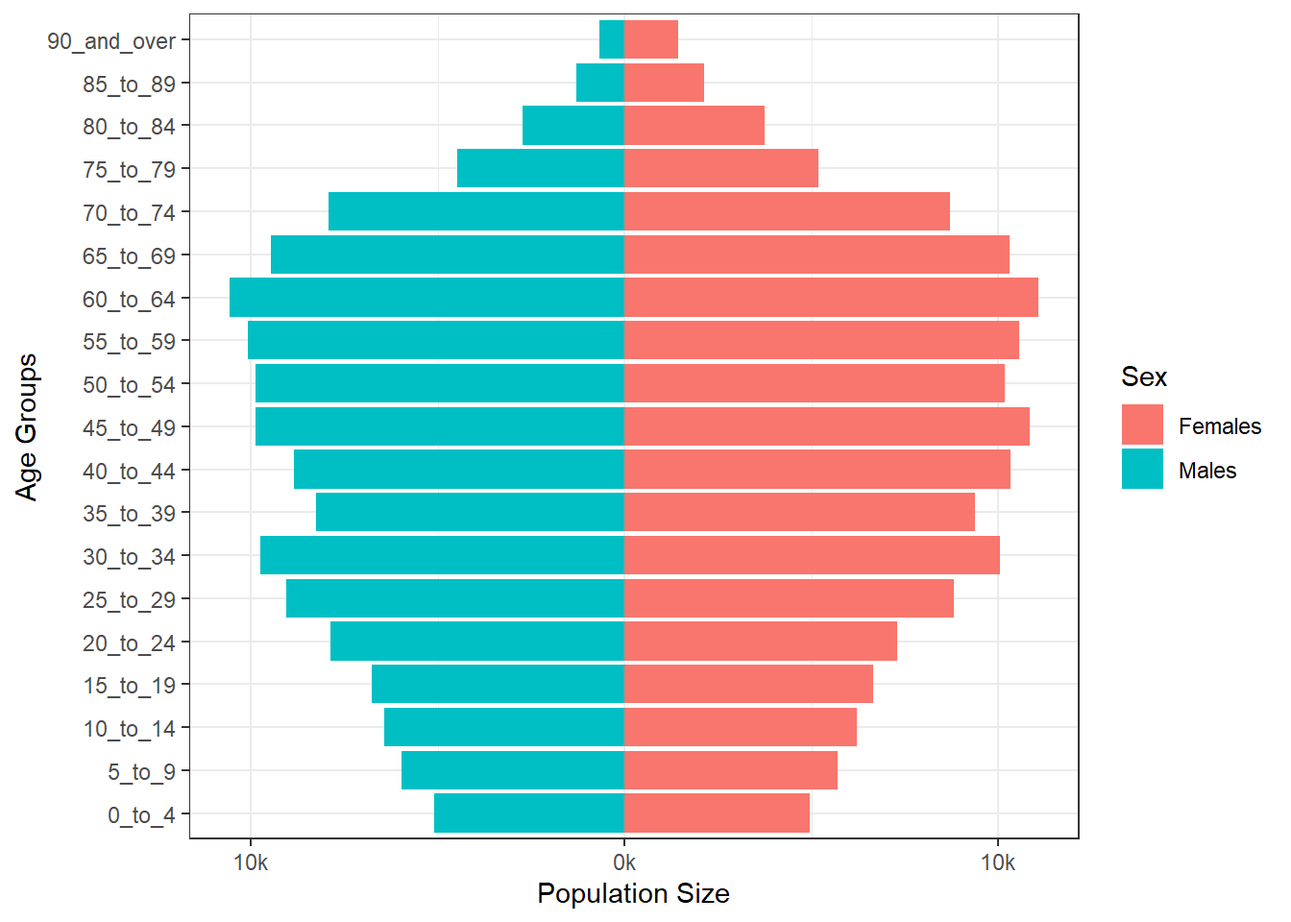
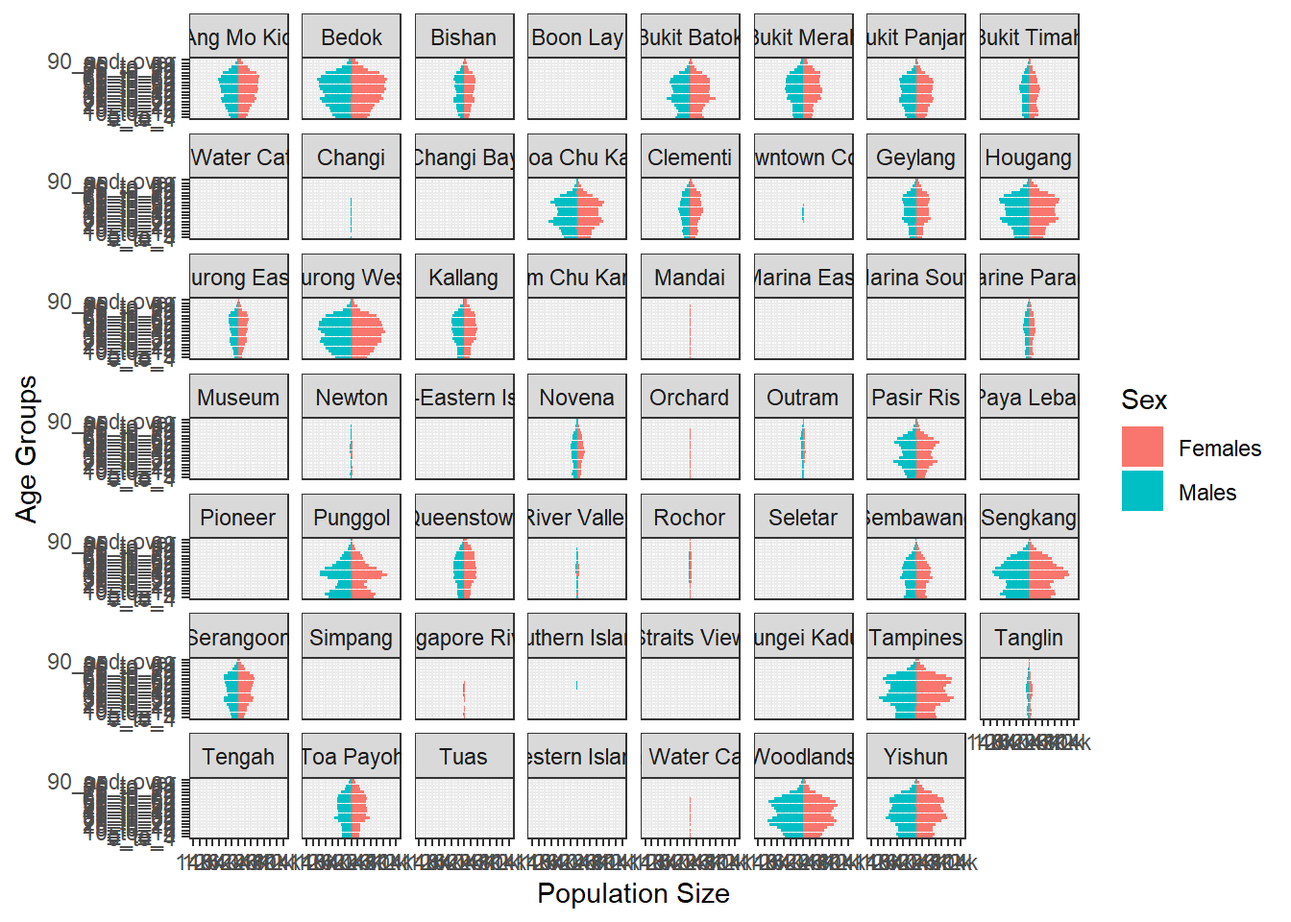
error

diff --git a/_site/Takehome_Ex/Takehome_Ex_02/takehome_Ex_02.html b/_site/Takehome_Ex/Takehome_Ex_02/takehome_Ex_02.html
@@ -252,20 +252,47 @@ code span.wa { color: #60a0b0; font-weight: bold; font-style: italic; } /* Warni
 <section id="remake" class="level2">
 <h2 class="anchored" data-anchor-id="remake">Remake</h2>
 <div class="cell">
-<div class="sourceCode cell-code" id="cb1"><pre class="sourceCode r code-with-copy"><code class="sourceCode r"><span id="cb1-1"><a href="#cb1-1" aria-hidden="true" tabindex="-1"></a>pacman<span class="sc">::</span><span class="fu">p_load</span>(tidyverse, patchwork, ggthemes, hrbrthemes,ggrepel,dplyr,prettyR, rmarkdown) </span>
+<div class="sourceCode cell-code" id="cb1"><pre class="sourceCode r code-with-copy"><code class="sourceCode r"><span id="cb1-1"><a href="#cb1-1" aria-hidden="true" tabindex="-1"></a>pacman<span class="sc">::</span><span class="fu">p_load</span>(tidyverse, patchwork, ggthemes, hrbrthemes,ggrepel,dplyr,prettyR, rmarkdown, XML, reshape2, plyr) </span>
 <span id="cb1-2"><a href="#cb1-2" aria-hidden="true" tabindex="-1"></a></span>
 <span id="cb1-3"><a href="#cb1-3" aria-hidden="true" tabindex="-1"></a><span class="co">#| echo: false</span></span>
 <span id="cb1-4"><a href="#cb1-4" aria-hidden="true" tabindex="-1"></a>  Popdata <span class="ot">&lt;-</span> <span class="fu">read_csv</span>(<span class="st">"data/respopagesextod2022.csv"</span>, <span class="at">show_col_types =</span> <span class="cn">FALSE</span>)</span>
-<span id="cb1-5"><a href="#cb1-5" aria-hidden="true" tabindex="-1"></a></span>
-<span id="cb1-6"><a href="#cb1-6" aria-hidden="true" tabindex="-1"></a> Popdata_males <span class="ot">&lt;-</span> Popdata <span class="sc">%&gt;%</span></span>
-<span id="cb1-7"><a href="#cb1-7" aria-hidden="true" tabindex="-1"></a>  <span class="fu">filter</span>(<span class="st">`</span><span class="at">Sex</span><span class="st">`</span> <span class="sc">==</span>  <span class="st">"Males"</span>) <span class="sc">%&gt;%</span></span>
-<span id="cb1-8"><a href="#cb1-8" aria-hidden="true" tabindex="-1"></a>  <span class="fu">mutate</span> (<span class="at">Pop =</span> <span class="sc">-</span>Pop)</span>
-<span id="cb1-9"><a href="#cb1-9" aria-hidden="true" tabindex="-1"></a> </span>
-<span id="cb1-10"><a href="#cb1-10" aria-hidden="true" tabindex="-1"></a> Popdata_females <span class="ot">&lt;-</span>Popdata <span class="sc">%&gt;%</span></span>
-<span id="cb1-11"><a href="#cb1-11" aria-hidden="true" tabindex="-1"></a>  <span class="fu">filter</span>(<span class="st">`</span><span class="at">Sex</span><span class="st">`</span> <span class="sc">==</span>  <span class="st">"Females"</span>) </span>
-<span id="cb1-12"><a href="#cb1-12" aria-hidden="true" tabindex="-1"></a>Popdata_T <span class="ot">&lt;-</span> <span class="fu">rbind</span>(Popdata_males,Popdata_females)</span>
-<span id="cb1-13"><a href="#cb1-13" aria-hidden="true" tabindex="-1"></a></span>
-<span id="cb1-14"><a href="#cb1-14" aria-hidden="true" tabindex="-1"></a><span class="fu">paged_table</span>(Popdata_T)</span></code><button title="Copy to Clipboard" class="code-copy-button"><i class="bi"></i></button></pre></div>
+<span id="cb1-5"><a href="#cb1-5" aria-hidden="true" tabindex="-1"></a>Popdata</span></code><button title="Copy to Clipboard" class="code-copy-button"><i class="bi"></i></button></pre></div>
+<div class="cell-output cell-output-stdout">
+<pre><code># A tibble: 100,928 × 7
+   PA         SZ                     AG     Sex     TOD                Pop  Time
+   &lt;chr&gt;      &lt;chr&gt;                  &lt;chr&gt;  &lt;chr&gt;   &lt;chr&gt;            &lt;dbl&gt; &lt;dbl&gt;
+ 1 Ang Mo Kio Ang Mo Kio Town Centre 0_to_4 Males   HDB 1- and 2-Ro…     0  2022
+ 2 Ang Mo Kio Ang Mo Kio Town Centre 0_to_4 Males   HDB 3-Room Flats    10  2022
+ 3 Ang Mo Kio Ang Mo Kio Town Centre 0_to_4 Males   HDB 4-Room Flats    10  2022
+ 4 Ang Mo Kio Ang Mo Kio Town Centre 0_to_4 Males   HDB 5-Room and …    30  2022
+ 5 Ang Mo Kio Ang Mo Kio Town Centre 0_to_4 Males   HUDC Flats (exc…     0  2022
+ 6 Ang Mo Kio Ang Mo Kio Town Centre 0_to_4 Males   Condominiums an…    50  2022
+ 7 Ang Mo Kio Ang Mo Kio Town Centre 0_to_4 Males   Landed Properti…     0  2022
+ 8 Ang Mo Kio Ang Mo Kio Town Centre 0_to_4 Males   Others               0  2022
+ 9 Ang Mo Kio Ang Mo Kio Town Centre 0_to_4 Females HDB 1- and 2-Ro…     0  2022
+10 Ang Mo Kio Ang Mo Kio Town Centre 0_to_4 Females HDB 3-Room Flats     0  2022
+# … with 100,918 more rows</code></pre>
+</div>
+</div>
+<div class="cell">
+<div class="sourceCode cell-code" id="cb3"><pre class="sourceCode r code-with-copy"><code class="sourceCode r"><span id="cb3-1"><a href="#cb3-1" aria-hidden="true" tabindex="-1"></a>PlanningA <span class="ot">&lt;-</span> Popdata <span class="sc">%&gt;%</span> <span class="fu">group_by</span>(PA) <span class="sc">%&gt;%</span> <span class="fu">summarise</span>(<span class="at">SumPop =</span> <span class="fu">sum</span>(Pop)) </span>
+<span id="cb3-2"><a href="#cb3-2" aria-hidden="true" tabindex="-1"></a></span>
+<span id="cb3-3"><a href="#cb3-3" aria-hidden="true" tabindex="-1"></a>PlanningA</span></code><button title="Copy to Clipboard" class="code-copy-button"><i class="bi"></i></button></pre></div>
+<div class="cell-output cell-output-stdout">
+<pre><code>   SumPop
+1 4081540</code></pre>
+</div>
+</div>
+<div class="cell">
+<div class="sourceCode cell-code" id="cb5"><pre class="sourceCode r code-with-copy"><code class="sourceCode r"><span id="cb5-1"><a href="#cb5-1" aria-hidden="true" tabindex="-1"></a> Popdata_males <span class="ot">&lt;-</span> Popdata <span class="sc">%&gt;%</span></span>
+<span id="cb5-2"><a href="#cb5-2" aria-hidden="true" tabindex="-1"></a>  <span class="fu">filter</span>(<span class="st">`</span><span class="at">Sex</span><span class="st">`</span> <span class="sc">==</span>  <span class="st">"Males"</span>) <span class="sc">%&gt;%</span></span>
+<span id="cb5-3"><a href="#cb5-3" aria-hidden="true" tabindex="-1"></a>  <span class="fu">mutate</span> (<span class="at">Pop =</span> <span class="sc">-</span>Pop)</span>
+<span id="cb5-4"><a href="#cb5-4" aria-hidden="true" tabindex="-1"></a> </span>
+<span id="cb5-5"><a href="#cb5-5" aria-hidden="true" tabindex="-1"></a> Popdata_females <span class="ot">&lt;-</span>Popdata <span class="sc">%&gt;%</span></span>
+<span id="cb5-6"><a href="#cb5-6" aria-hidden="true" tabindex="-1"></a>  <span class="fu">filter</span>(<span class="st">`</span><span class="at">Sex</span><span class="st">`</span> <span class="sc">==</span>  <span class="st">"Females"</span>) </span>
+<span id="cb5-7"><a href="#cb5-7" aria-hidden="true" tabindex="-1"></a>Popdata_T <span class="ot">&lt;-</span> <span class="fu">rbind</span>(Popdata_males,Popdata_females)</span>
+<span id="cb5-8"><a href="#cb5-8" aria-hidden="true" tabindex="-1"></a></span>
+<span id="cb5-9"><a href="#cb5-9" aria-hidden="true" tabindex="-1"></a><span class="fu">paged_table</span>(Popdata_T)</span></code><button title="Copy to Clipboard" class="code-copy-button"><i class="bi"></i></button></pre></div>
 <div class="cell-output-display">
 
 <div data-pagedtable="false">
@@ -276,27 +303,31 @@ code span.wa { color: #60a0b0; font-weight: bold; font-style: italic; } /* Warni
 </div>
 </div>
 <div class="cell">
-<div class="sourceCode cell-code" id="cb2"><pre class="sourceCode r code-with-copy"><code class="sourceCode r"><span id="cb2-1"><a href="#cb2-1" aria-hidden="true" tabindex="-1"></a>Popdata_T<span class="sc">$</span>AG <span class="ot">&lt;-</span> <span class="fu">factor</span> (Popdata_T<span class="sc">$</span>AG, <span class="at">levels =</span> <span class="fu">unique</span>(Popdata_T<span class="sc">$</span>AG)) </span>
-<span id="cb2-2"><a href="#cb2-2" aria-hidden="true" tabindex="-1"></a>    <span class="fu">ggplot</span>(Popdata_T, <span class="fu">aes</span> (<span class="at">x =</span> AG, <span class="at">y =</span> Pop, <span class="at">fill =</span> Sex)) <span class="sc">+</span></span>
-<span id="cb2-3"><a href="#cb2-3" aria-hidden="true" tabindex="-1"></a>      <span class="fu">geom_bar</span>(<span class="at">stat =</span> <span class="st">"identity"</span>) <span class="sc">+</span></span>
-<span id="cb2-4"><a href="#cb2-4" aria-hidden="true" tabindex="-1"></a>      <span class="fu">coord_flip</span>()</span></code><button title="Copy to Clipboard" class="code-copy-button"><i class="bi"></i></button></pre></div>
-<div class="cell-output-display">
-<p><img src="takehome_Ex_02_files/figure-html/unnamed-chunk-2-1.png" class="img-fluid" width="672"></p>
-</div>
-</div>
-<div class="cell">
-<div class="sourceCode cell-code" id="cb3"><pre class="sourceCode r code-with-copy"><code class="sourceCode r"><span id="cb3-1"><a href="#cb3-1" aria-hidden="true" tabindex="-1"></a>xbrks <span class="ot">&lt;-</span> <span class="fu">seq</span>(<span class="sc">-</span><span class="dv">60000</span>,<span class="dv">60000</span>,<span class="dv">10000</span>)</span>
-<span id="cb3-2"><a href="#cb3-2" aria-hidden="true" tabindex="-1"></a>xlabls <span class="ot">&lt;-</span> <span class="fu">paste0</span>(<span class="fu">as.character</span>(<span class="fu">c</span>(<span class="fu">seq</span>(<span class="dv">60</span>, <span class="dv">0</span>, <span class="sc">-</span><span class="dv">10</span>),<span class="fu">seq</span>(<span class="dv">10</span>,<span class="dv">60</span>,<span class="dv">10</span>))),<span class="st">"k"</span>)</span></code><button title="Copy to Clipboard" class="code-copy-button"><i class="bi"></i></button></pre></div>
-</div>
-<div class="cell">
-<div class="sourceCode cell-code" id="cb4"><pre class="sourceCode r code-with-copy"><code class="sourceCode r"><span id="cb4-1"><a href="#cb4-1" aria-hidden="true" tabindex="-1"></a>Popdata_T_Bedok <span class="ot">&lt;-</span>Popdata_T <span class="sc">%&gt;%</span> </span>
-<span id="cb4-2"><a href="#cb4-2" aria-hidden="true" tabindex="-1"></a> <span class="fu">filter</span>(<span class="st">`</span><span class="at">PA</span><span class="st">`</span> <span class="sc">==</span>  <span class="st">"Bedok"</span>) </span>
-<span id="cb4-3"><a href="#cb4-3" aria-hidden="true" tabindex="-1"></a></span>
-<span id="cb4-4"><a href="#cb4-4" aria-hidden="true" tabindex="-1"></a><span class="fu">ggplot</span>(Popdata_T_Bedok, <span class="fu">aes</span> (<span class="at">x =</span> AG, <span class="at">y =</span> Pop, <span class="at">fill =</span> Sex)) <span class="sc">+</span></span>
-<span id="cb4-5"><a href="#cb4-5" aria-hidden="true" tabindex="-1"></a>      <span class="fu">geom_bar</span>(<span class="at">stat =</span> <span class="st">"identity"</span>) <span class="sc">+</span></span>
-<span id="cb4-6"><a href="#cb4-6" aria-hidden="true" tabindex="-1"></a>      <span class="fu">scale_y_continuous</span>(<span class="at">breaks =</span> xbrks, <span class="at">labels =</span> xlabls, <span class="at">name =</span> <span class="st">"Population Size"</span>)<span class="sc">+</span>  <span class="fu">xlab</span>(<span class="st">"Age Groups"</span>) <span class="sc">+</span> <span class="fu">coord_flip</span>() <span class="sc">+</span> <span class="fu">theme_bw</span>()</span></code><button title="Copy to Clipboard" class="code-copy-button"><i class="bi"></i></button></pre></div>
+<div class="sourceCode cell-code" id="cb6"><pre class="sourceCode r code-with-copy"><code class="sourceCode r"><span id="cb6-1"><a href="#cb6-1" aria-hidden="true" tabindex="-1"></a>Popdata_T<span class="sc">$</span>AG <span class="ot">&lt;-</span> <span class="fu">factor</span> (Popdata_T<span class="sc">$</span>AG, <span class="at">levels =</span> <span class="fu">unique</span>(Popdata_T<span class="sc">$</span>AG))</span>
+<span id="cb6-2"><a href="#cb6-2" aria-hidden="true" tabindex="-1"></a></span>
+<span id="cb6-3"><a href="#cb6-3" aria-hidden="true" tabindex="-1"></a>xbrks <span class="ot">&lt;-</span> <span class="fu">seq</span>(<span class="sc">-</span><span class="dv">14000</span>,<span class="dv">14000</span>,<span class="dv">2000</span>)</span>
+<span id="cb6-4"><a href="#cb6-4" aria-hidden="true" tabindex="-1"></a>xlabls <span class="ot">&lt;-</span> <span class="fu">paste0</span>(<span class="fu">as.character</span>(<span class="fu">c</span>(<span class="fu">seq</span>(<span class="dv">14</span>, <span class="dv">0</span>, <span class="sc">-</span><span class="dv">2</span>),<span class="fu">seq</span>(<span class="dv">2</span>,<span class="dv">14</span>,<span class="dv">2</span>))),<span class="st">"k"</span>)</span>
+<span id="cb6-5"><a href="#cb6-5" aria-hidden="true" tabindex="-1"></a></span>
+<span id="cb6-6"><a href="#cb6-6" aria-hidden="true" tabindex="-1"></a><span class="fu">ggplot</span>(Popdata_T, <span class="fu">aes</span> (<span class="at">x =</span> AG, <span class="at">y =</span> Pop, <span class="at">fill =</span> Sex)) <span class="sc">+</span></span>
+<span id="cb6-7"><a href="#cb6-7" aria-hidden="true" tabindex="-1"></a>      <span class="fu">geom_bar</span>(<span class="at">stat =</span> <span class="st">"identity"</span>) <span class="sc">+</span> </span>
+<span id="cb6-8"><a href="#cb6-8" aria-hidden="true" tabindex="-1"></a>      <span class="fu">scale_y_continuous</span>(<span class="at">limits =</span> <span class="fu">c</span>(<span class="sc">-</span><span class="dv">14000</span>,<span class="dv">14000</span>), <span class="at">breaks =</span> xbrks, <span class="at">labels =</span> xlabls, <span class="at">name =</span> <span class="st">"Population Size"</span>)<span class="sc">+</span>  <span class="fu">xlab</span>(<span class="st">"Age Groups"</span>) <span class="sc">+</span> <span class="fu">coord_flip</span>() <span class="sc">+</span> <span class="fu">theme_bw</span>() <span class="sc">+</span> <span class="fu">facet_wrap</span>(<span class="sc">~</span> PA)</span></code><button title="Copy to Clipboard" class="code-copy-button"><i class="bi"></i></button></pre></div>
 <div class="cell-output-display">
 <p><img src="takehome_Ex_02_files/figure-html/unnamed-chunk-4-1.png" class="img-fluid" width="672"></p>
+</div>
+</div>
+<div class="cell">
+<div class="sourceCode cell-code" id="cb7"><pre class="sourceCode r code-with-copy"><code class="sourceCode r"><span id="cb7-1"><a href="#cb7-1" aria-hidden="true" tabindex="-1"></a>xbrks <span class="ot">&lt;-</span> <span class="fu">seq</span>(<span class="sc">-</span><span class="dv">14000</span>,<span class="dv">14000</span>,<span class="dv">2000</span>)</span>
+<span id="cb7-2"><a href="#cb7-2" aria-hidden="true" tabindex="-1"></a>xlabls <span class="ot">&lt;-</span> <span class="fu">paste0</span>(<span class="fu">as.character</span>(<span class="fu">c</span>(<span class="fu">seq</span>(<span class="dv">14</span>, <span class="dv">0</span>, <span class="sc">-</span><span class="dv">2</span>),<span class="fu">seq</span>(<span class="dv">2</span>,<span class="dv">14</span>,<span class="dv">2</span>))),<span class="st">"k"</span>)</span>
+<span id="cb7-3"><a href="#cb7-3" aria-hidden="true" tabindex="-1"></a></span>
+<span id="cb7-4"><a href="#cb7-4" aria-hidden="true" tabindex="-1"></a>Popdata_T_Bedok <span class="ot">&lt;-</span>Popdata_T <span class="sc">%&gt;%</span> </span>
+<span id="cb7-5"><a href="#cb7-5" aria-hidden="true" tabindex="-1"></a> <span class="fu">filter</span>(<span class="st">`</span><span class="at">PA</span><span class="st">`</span> <span class="sc">==</span>  <span class="st">"Bedok"</span>) </span>
+<span id="cb7-6"><a href="#cb7-6" aria-hidden="true" tabindex="-1"></a></span>
+<span id="cb7-7"><a href="#cb7-7" aria-hidden="true" tabindex="-1"></a>Popdata_T_Bedok<span class="sc">$</span>AG <span class="ot">&lt;-</span> <span class="fu">factor</span> (Popdata_T_Bedok<span class="sc">$</span>AG, <span class="at">levels =</span> <span class="fu">unique</span>(Popdata_T_Bedok<span class="sc">$</span>AG)) </span>
+<span id="cb7-8"><a href="#cb7-8" aria-hidden="true" tabindex="-1"></a><span class="fu">ggplot</span>(Popdata_T_Bedok, <span class="fu">aes</span> (<span class="at">x =</span> AG, <span class="at">y =</span> Pop, <span class="at">fill =</span> Sex)) <span class="sc">+</span></span>
+<span id="cb7-9"><a href="#cb7-9" aria-hidden="true" tabindex="-1"></a>      <span class="fu">geom_bar</span>(<span class="at">stat =</span> <span class="st">"identity"</span>) <span class="sc">+</span> </span>
+<span id="cb7-10"><a href="#cb7-10" aria-hidden="true" tabindex="-1"></a>      <span class="fu">scale_y_continuous</span>(<span class="at">limits =</span> <span class="fu">c</span>(<span class="sc">-</span><span class="dv">14000</span>,<span class="dv">14000</span>), <span class="at">breaks =</span> xbrks, <span class="at">labels =</span> xlabls, <span class="at">name =</span> <span class="st">"Population Size"</span>)<span class="sc">+</span>  <span class="fu">xlab</span>(<span class="st">"Age Groups"</span>) <span class="sc">+</span> <span class="fu">coord_flip</span>() <span class="sc">+</span> <span class="fu">theme_bw</span>()</span></code><button title="Copy to Clipboard" class="code-copy-button"><i class="bi"></i></button></pre></div>
+<div class="cell-output-display">
+<p><img src="takehome_Ex_02_files/figure-html/unnamed-chunk-5-1.png" class="img-fluid" width="672"></p>
 </div>
 </div>
 

diff --git a/_site/v2 Test/v2Test.html b/_site/v2 Test/v2Test.html
@@ -1,0 +1,281 @@
+<!DOCTYPE html>
+<html xmlns="http://www.w3.org/1999/xhtml" lang="en" xml:lang="en"><head>
+
+<meta charset="utf-8">
+<meta name="generator" content="quarto-1.2.269">
+
+<meta name="viewport" content="width=device-width, initial-scale=1.0, user-scalable=yes">
+
+
+<title>ISSS608 – v2test</title>
+<style>
+code{white-space: pre-wrap;}
+span.smallcaps{font-variant: small-caps;}
+div.columns{display: flex; gap: min(4vw, 1.5em);}
+div.column{flex: auto; overflow-x: auto;}
+div.hanging-indent{margin-left: 1.5em; text-indent: -1.5em;}
+ul.task-list{list-style: none;}
+ul.task-list li input[type="checkbox"] {
+  width: 0.8em;
+  margin: 0 0.8em 0.2em -1.6em;
+  vertical-align: middle;
+}
+</style>
+
+
+<script src="../site_libs/quarto-nav/quarto-nav.js"></script>
+<script src="../site_libs/quarto-nav/headroom.min.js"></script>
+<script src="../site_libs/clipboard/clipboard.min.js"></script>
+<script src="../site_libs/quarto-search/autocomplete.umd.js"></script>
+<script src="../site_libs/quarto-search/fuse.min.js"></script>
+<script src="../site_libs/quarto-search/quarto-search.js"></script>
+<meta name="quarto:offset" content="../">
+<script src="../site_libs/quarto-html/quarto.js"></script>
+<script src="../site_libs/quarto-html/popper.min.js"></script>
+<script src="../site_libs/quarto-html/tippy.umd.min.js"></script>
+<script src="../site_libs/quarto-html/anchor.min.js"></script>
+<link href="../site_libs/quarto-html/tippy.css" rel="stylesheet">
+<link href="../site_libs/quarto-html/quarto-syntax-highlighting.css" rel="stylesheet" id="quarto-text-highlighting-styles">
+<script src="../site_libs/bootstrap/bootstrap.min.js"></script>
+<link href="../site_libs/bootstrap/bootstrap-icons.css" rel="stylesheet">
+<link href="../site_libs/bootstrap/bootstrap.min.css" rel="stylesheet" id="quarto-bootstrap" data-mode="light">
+<script id="quarto-search-options" type="application/json">{
+  "location": "navbar",
+  "copy-button": false,
+  "collapse-after": 3,
+  "panel-placement": "end",
+  "type": "overlay",
+  "limit": 20,
+  "language": {
+    "search-no-results-text": "No results",
+    "search-matching-documents-text": "matching documents",
+    "search-copy-link-title": "Copy link to search",
+    "search-hide-matches-text": "Hide additional matches",
+    "search-more-match-text": "more match in this document",
+    "search-more-matches-text": "more matches in this document",
+    "search-clear-button-title": "Clear",
+    "search-detached-cancel-button-title": "Cancel",
+    "search-submit-button-title": "Submit"
+  }
+}</script>
+
+
+<link rel="stylesheet" href="../styles.css">
+</head>
+
+<body class="nav-fixed">
+
+<div id="quarto-search-results"></div>
+  <header id="quarto-header" class="headroom fixed-top">
+    <nav class="navbar navbar-expand-lg navbar-dark ">
+      <div class="navbar-container container-fluid">
+      <div class="navbar-brand-container">
+    <a class="navbar-brand" href="../index.html">
+    <span class="navbar-title">ISSS608</span>
+    </a>
+  </div>
+          <button class="navbar-toggler" type="button" data-bs-toggle="collapse" data-bs-target="#navbarCollapse" aria-controls="navbarCollapse" aria-expanded="false" aria-label="Toggle navigation" onclick="if (window.quartoToggleHeadroom) { window.quartoToggleHeadroom(); }">
+  <span class="navbar-toggler-icon"></span>
+</button>
+          <div class="collapse navbar-collapse" id="navbarCollapse">
+            <ul class="navbar-nav navbar-nav-scroll me-auto">
+  <li class="nav-item dropdown ">
+    <a class="nav-link dropdown-toggle" href="#" id="nav-menu-hands-on-excercise" role="button" data-bs-toggle="dropdown" aria-expanded="false">
+ <span class="menu-text">Hands-on Excercise</span>
+    </a>
+    <ul class="dropdown-menu" aria-labelledby="nav-menu-hands-on-excercise">    
+        <li>
+    <a class="dropdown-item" href="../Hands-on_EX01/Hands-on_Ex01/hands-on_Ex01.html">
+ <span class="dropdown-text">Hands-on Ex1</span></a>
+  </li>  
+        <li>
+    <a class="dropdown-item" href="../Hands-on_EX02/Hands-on_EX02.html">
+ <span class="dropdown-text">Hands-on Ex2</span></a>
+  </li>  
+    </ul>
+  </li>
+  <li class="nav-item dropdown ">
+    <a class="nav-link dropdown-toggle" href="#" id="nav-menu-take-home-excercise" role="button" data-bs-toggle="dropdown" aria-expanded="false">
+ <span class="menu-text">Take-home Excercise</span>
+    </a>
+    <ul class="dropdown-menu" aria-labelledby="nav-menu-take-home-excercise">    
+        <li>
+    <a class="dropdown-item" href="../Takehome_Ex/Takehome_Ex_01/takehome_Ex_01.html">
+ <span class="dropdown-text">Takehome Ex 1</span></a>
+  </li>  
+        <li>
+    <a class="dropdown-item" href="../Takehome_Ex/Takehome_Ex_02/takehome_Ex_02.html">
+ <span class="dropdown-text">Takehome Ex 2</span></a>
+  </li>  
+    </ul>
+  </li>
+</ul>
+            <ul class="navbar-nav navbar-nav-scroll ms-auto">
+  <li class="nav-item">
+    <a class="nav-link" href="../index.html">
+ <span class="menu-text">Home</span></a>
+  </li>  
+  <li class="nav-item">
+    <a class="nav-link" href="../about.html">
+ <span class="menu-text">Submission Links</span></a>
+  </li>  
+</ul>
+              <div id="quarto-search" class="" title="Search"></div>
+          </div> <!-- /navcollapse -->
+      </div> <!-- /container-fluid -->
+    </nav>
+</header>
+<!-- content -->
+<div id="quarto-content" class="quarto-container page-columns page-rows-contents page-layout-article page-navbar">
+<!-- sidebar -->
+<!-- margin-sidebar -->
+    <div id="quarto-margin-sidebar" class="sidebar margin-sidebar">
+        
+    </div>
+<!-- main -->
+<main class="content" id="quarto-document-content">
+
+
+
+
+
+
+</main> <!-- /main -->
+<script id="quarto-html-after-body" type="application/javascript">
+window.document.addEventListener("DOMContentLoaded", function (event) {
+  const toggleBodyColorMode = (bsSheetEl) => {
+    const mode = bsSheetEl.getAttribute("data-mode");
+    const bodyEl = window.document.querySelector("body");
+    if (mode === "dark") {
+      bodyEl.classList.add("quarto-dark");
+      bodyEl.classList.remove("quarto-light");
+    } else {
+      bodyEl.classList.add("quarto-light");
+      bodyEl.classList.remove("quarto-dark");
+    }
+  }
+  const toggleBodyColorPrimary = () => {
+    const bsSheetEl = window.document.querySelector("link#quarto-bootstrap");
+    if (bsSheetEl) {
+      toggleBodyColorMode(bsSheetEl);
+    }
+  }
+  toggleBodyColorPrimary();  
+  const icon = "";
+  const anchorJS = new window.AnchorJS();
+  anchorJS.options = {
+    placement: 'right',
+    icon: icon
+  };
+  anchorJS.add('.anchored');
+  const clipboard = new window.ClipboardJS('.code-copy-button', {
+    target: function(trigger) {
+      return trigger.previousElementSibling;
+    }
+  });
+  clipboard.on('success', function(e) {
+    // button target
+    const button = e.trigger;
+    // don't keep focus
+    button.blur();
+    // flash "checked"
+    button.classList.add('code-copy-button-checked');
+    var currentTitle = button.getAttribute("title");
+    button.setAttribute("title", "Copied!");
+    let tooltip;
+    if (window.bootstrap) {
+      button.setAttribute("data-bs-toggle", "tooltip");
+      button.setAttribute("data-bs-placement", "left");
+      button.setAttribute("data-bs-title", "Copied!");
+      tooltip = new bootstrap.Tooltip(button, 
+        { trigger: "manual", 
+          customClass: "code-copy-button-tooltip",
+          offset: [0, -8]});
+      tooltip.show();    
+    }
+    setTimeout(function() {
+      if (tooltip) {
+        tooltip.hide();
+        button.removeAttribute("data-bs-title");
+        button.removeAttribute("data-bs-toggle");
+        button.removeAttribute("data-bs-placement");
+      }
+      button.setAttribute("title", currentTitle);
+      button.classList.remove('code-copy-button-checked');
+    }, 1000);
+    // clear code selection
+    e.clearSelection();
+  });
+  function tippyHover(el, contentFn) {
+    const config = {
+      allowHTML: true,
+      content: contentFn,
+      maxWidth: 500,
+      delay: 100,
+      arrow: false,
+      appendTo: function(el) {
+          return el.parentElement;
+      },
+      interactive: true,
+      interactiveBorder: 10,
+      theme: 'quarto',
+      placement: 'bottom-start'
+    };
+    window.tippy(el, config); 
+  }
+  const noterefs = window.document.querySelectorAll('a[role="doc-noteref"]');
+  for (var i=0; i<noterefs.length; i++) {
+    const ref = noterefs[i];
+    tippyHover(ref, function() {
+      // use id or data attribute instead here
+      let href = ref.getAttribute('data-footnote-href') || ref.getAttribute('href');
+      try { href = new URL(href).hash; } catch {}
+      const id = href.replace(/^#\/?/, "");
+      const note = window.document.getElementById(id);
+      return note.innerHTML;
+    });
+  }
+  const findCites = (el) => {
+    const parentEl = el.parentElement;
+    if (parentEl) {
+      const cites = parentEl.dataset.cites;
+      if (cites) {
+        return {
+          el,
+          cites: cites.split(' ')
+        };
+      } else {
+        return findCites(el.parentElement)
+      }
+    } else {
+      return undefined;
+    }
+  };
+  var bibliorefs = window.document.querySelectorAll('a[role="doc-biblioref"]');
+  for (var i=0; i<bibliorefs.length; i++) {
+    const ref = bibliorefs[i];
+    const citeInfo = findCites(ref);
+    if (citeInfo) {
+      tippyHover(citeInfo.el, function() {
+        var popup = window.document.createElement('div');
+        citeInfo.cites.forEach(function(cite) {
+          var citeDiv = window.document.createElement('div');
+          citeDiv.classList.add('hanging-indent');
+          citeDiv.classList.add('csl-entry');
+          var biblioDiv = window.document.getElementById('ref-' + cite);
+          if (biblioDiv) {
+            citeDiv.innerHTML = biblioDiv.innerHTML;
+          }
+          popup.appendChild(citeDiv);
+        });
+        return popup.innerHTML;
+      });
+    }
+  }
+});
+</script>
+</div> <!-- /content -->
+
+
+
+</body></html>
